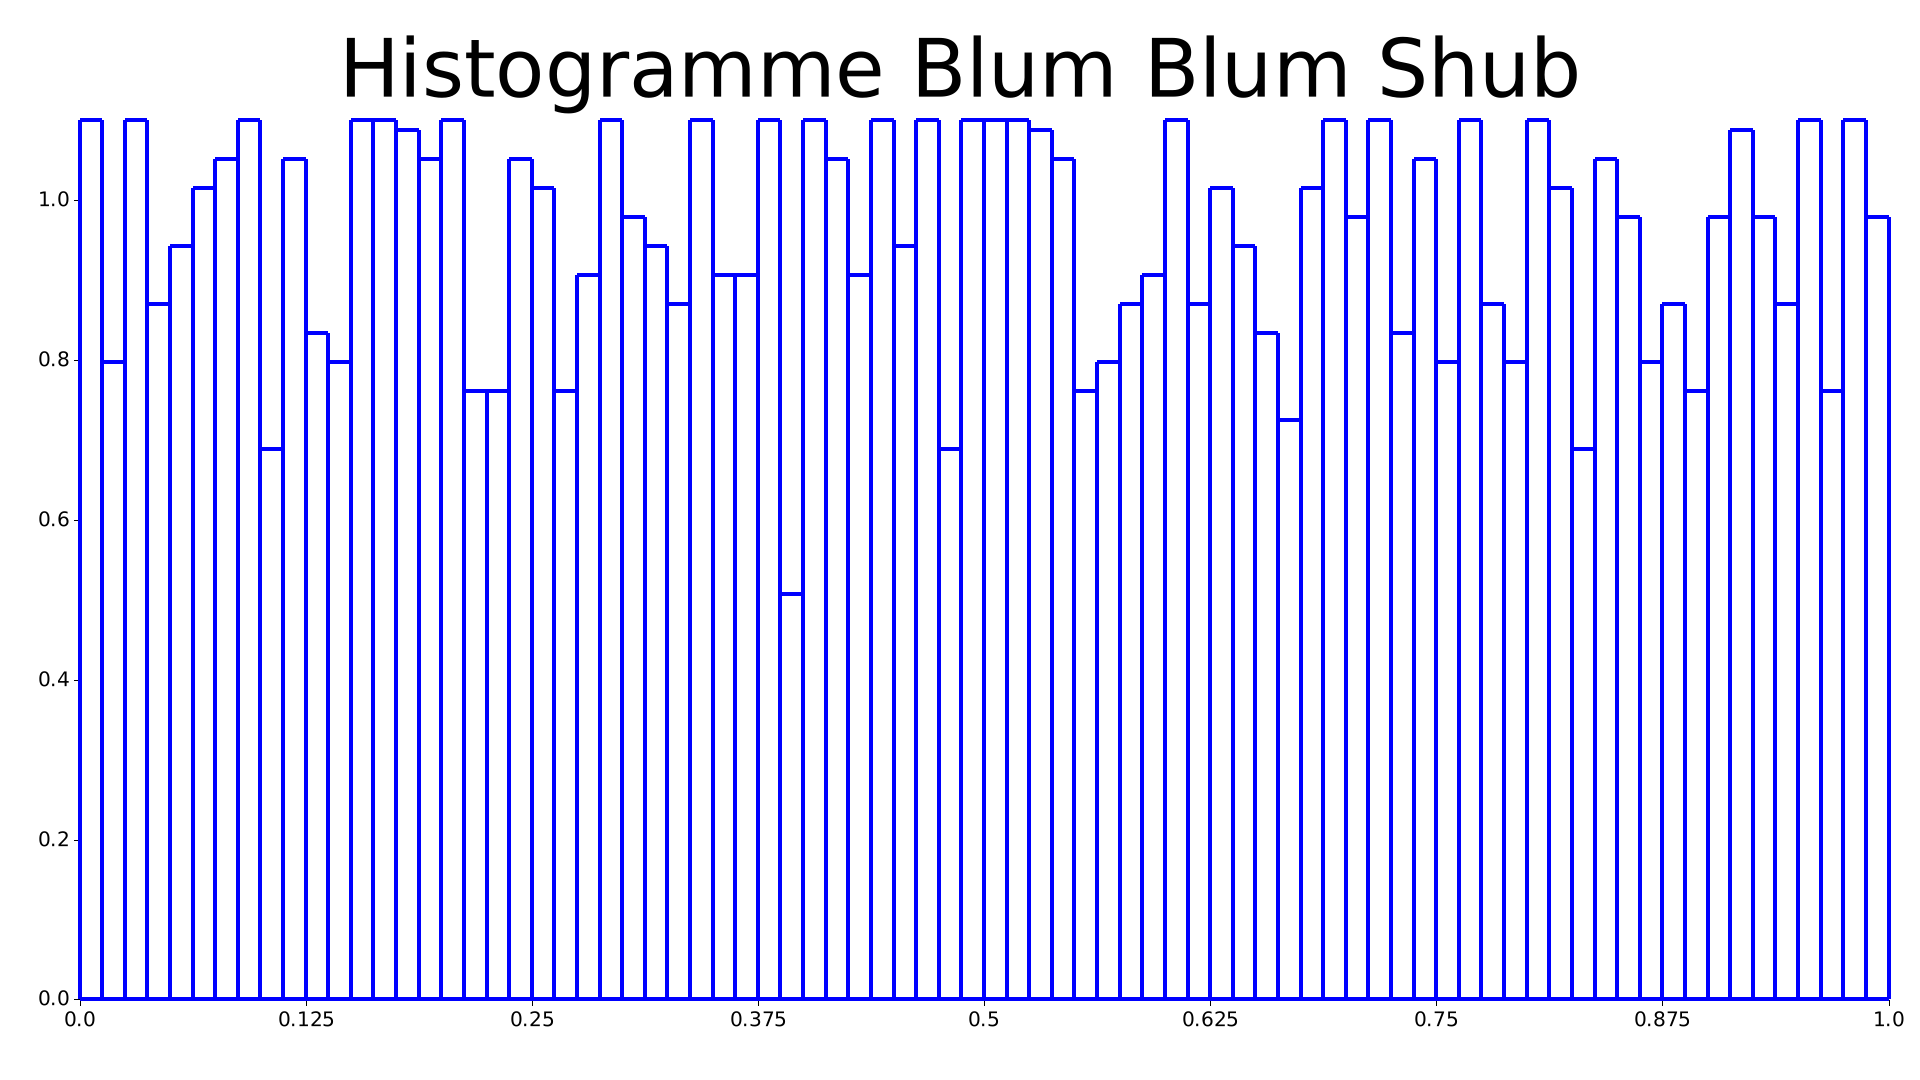
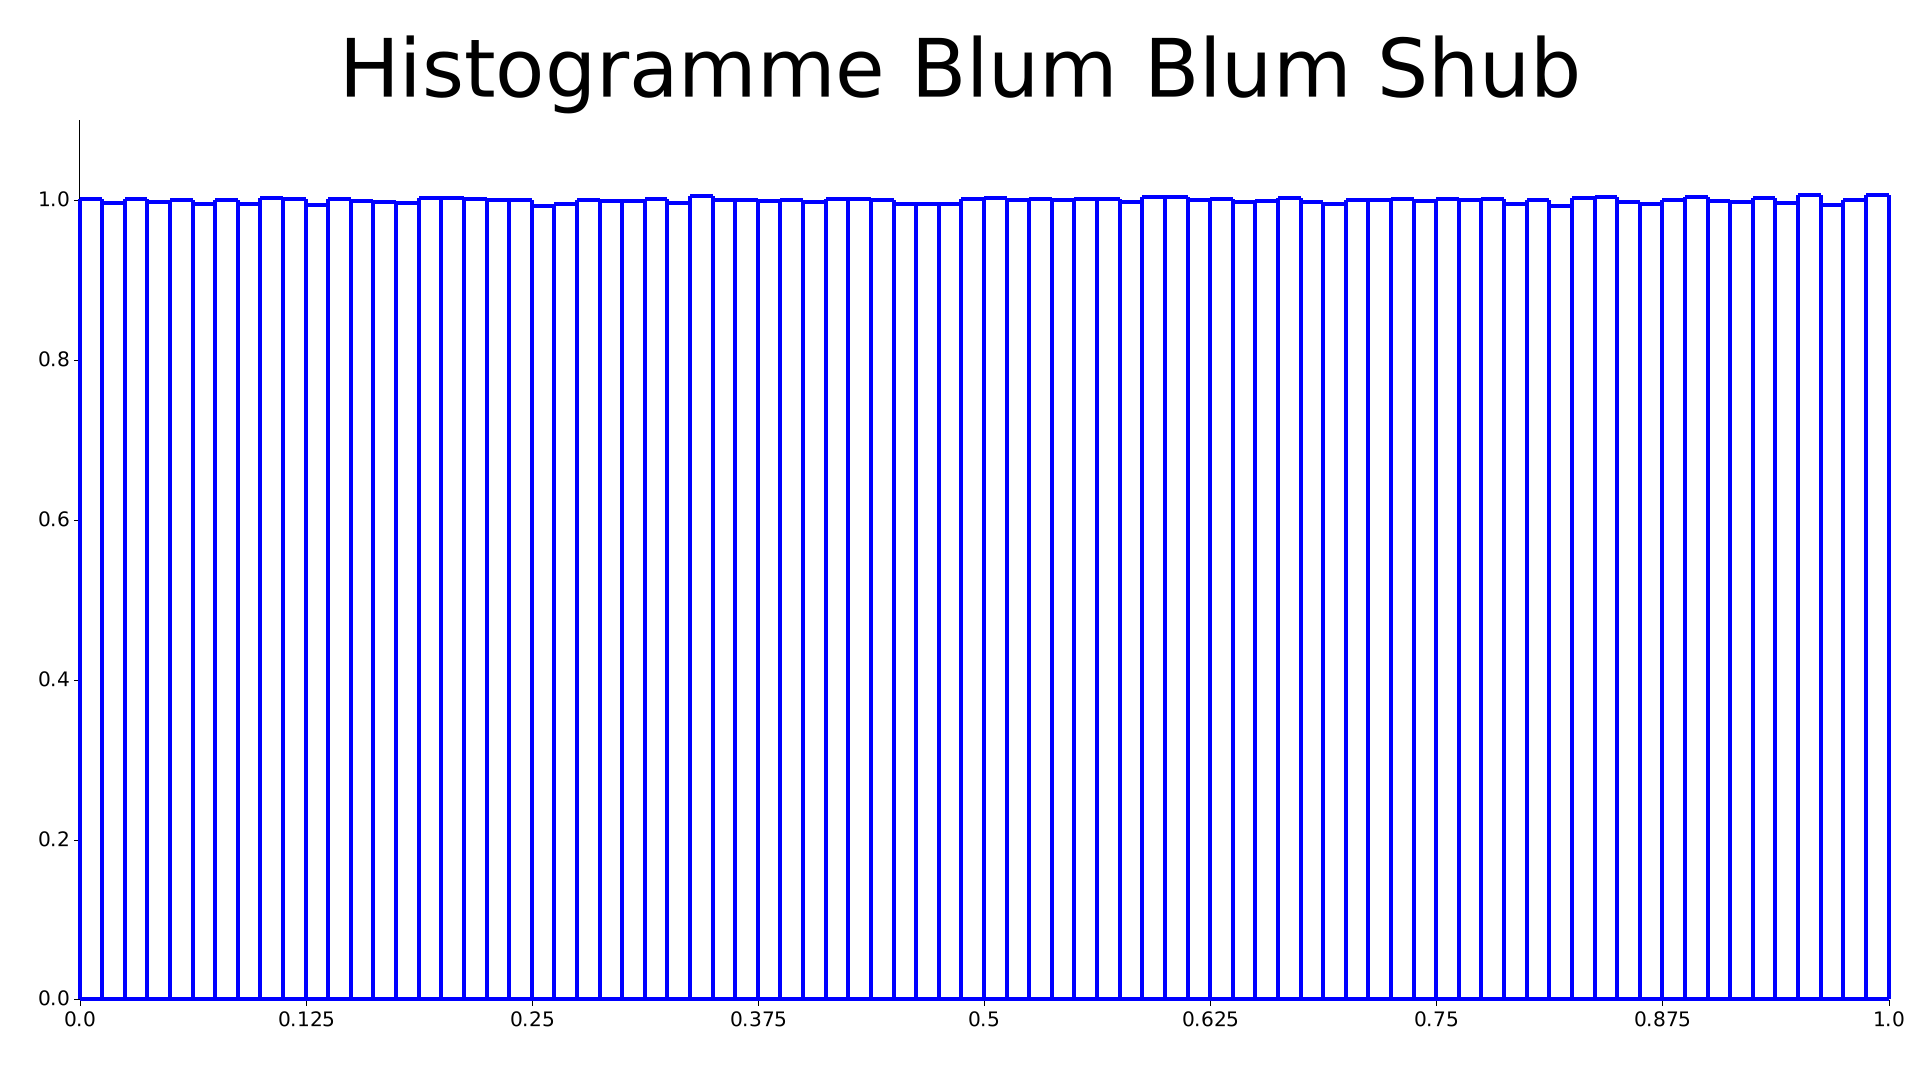
changes made during class

diff --git a/random_number_generators/src/rng/blum_blum_shub.rs b/random_number_generators/src/rng/blum_blum_shub.rs
@@ -2,12 +2,14 @@ use super::base::*;
 use num_primes::Generator;
 use super::linear_congruence_generators::*;
 use num_traits::ToPrimitive;
+use rand_xoshiro::rand_core::{SeedableRng,RngCore};
+use rand_xoshiro::Xoshiro256PlusPlus;
 
 pub struct BlumBlumShub {
-    p : u32,
-    q : u32,
-    m : u64,
-    seed : u32,
+    p : u64,
+    q : u64,
+    m : u128,
+    seed : u128,
 }
 
 impl RandomNumberGenerator for BlumBlumShub {
@@ -20,7 +22,7 @@ impl RNG32bitOutput for BlumBlumShub {
     fn next_u32(&mut self) -> u32{
         let mut out : u32 = 0;
         for _i in 0..32 {
-            out = (out << 1) | (self.next_bit() & 1_u32);
+            out = (out << 1) | (self.next_bit()as u32 & 1_u32);
         }
         return out;
     }
@@ -48,38 +50,39 @@ impl RNG128bitOutput for BlumBlumShub {
 
 
 impl BlumBlumShub {
-    pub fn set_p_q_seed(&mut self,p:u32,q:u32,seed:u32){
+    pub fn set_p_q_seed(&mut self,p:u64,q:u64,seed:u64){
         self.p = p;
         self.q = q;
-        self.m = (p * q) as u64;
-        self.seed = seed;
+        self.m = (p as u128 * q as u128 );
+        self.seed = seed as u128; 
     }
 
     fn next_bit(&mut self ) -> u32 {
-        self.seed = ((self.seed as u64 * self.seed as u64) % self.m) as u32;
-        return self.seed;
+        self.seed = ((self.seed as u128 * self.seed as u128) % self.m) as u128;
+        return self.seed as u32;
     }
 
+
+    //this does not work and break after ~100k iterations
     pub fn generate_p_q_seed(&mut self,seed:u64){
         loop {
-            self.p = Generator::new_prime(16).to_u32().unwrap(); //32 bit max to have M not overflow
+            self.p = Generator::safe_prime(64).to_u64().unwrap(); //32 bit max to have M not overflow
             if self.p % 4 == 3 {
                 break;
             }
         }
         loop {
-            self.q = Generator::new_prime(16).to_u32().unwrap(); //32 bit max to have M not overflow
+            self.q = Generator::safe_prime(64).to_u64().unwrap(); //32 bit max to have M not overflow
             if self.q % 4 == 3 {
                 break;
             }
         }
-        self.m = (self.p * self.q) as u64;
+        self.m = self.p as u128 * self.q as u128;
         
-        let mut rng = park_miller();
-        rng.set_seed(seed);
+        let mut rng = Xoshiro256PlusPlus::seed_from_u64(seed);
         loop {
-            self.seed = rng.next_u32();
-            if (self.seed % self.p != 0) && (self.seed % self.q != 0) && (self.seed != 0){
+            self.seed = rng.next_u64() as u128;
+            if (self.seed % self.p as u128 != 0) && (self.seed % self.q as u128 != 0) && (self.seed != 0){
                 break;
             }
         }
@@ -89,5 +92,5 @@ impl BlumBlumShub {
 
 
 pub fn blum_bum_shub() -> BlumBlumShub{
-    return BlumBlumShub{seed:7817,p:7603,q:7487,m:56_923_661};
+    return BlumBlumShub{seed:4121221139u128,p:30000000091u64,q:40000000003u64,m:1200000003730000000273u128};
 }

diff --git a/random_number_generators/src/rng/lagged_fibonacci_generators.rs b/random_number_generators/src/rng/lagged_fibonacci_generators.rs
@@ -16,7 +16,7 @@ impl RandomNumberGenerator for MitchellMoore {
 }
 
 impl RNG32bitOutput for MitchellMoore {
-    fn next_u32(&mut self ) -> u32 { //TODO verify u64 is max
+    fn next_u32(&mut self ) -> u32 {
         let out = lagged_fibo(self.seed[23] as u64,self.seed[54] as u64,self.modulo) as u32;
         self.seed.rotate_right(1);
         self.seed[0] = out;
@@ -40,6 +40,5 @@ pub fn mitchell_moore() -> MitchellMoore{
 
 fn lagged_fibo(xa:u64,xb:u64,m:u64) ->u64 {
     return(xa + xb) % m;
-
 }
 

diff --git a/random_number_generators/src/main.rs b/random_number_generators/src/main.rs
@@ -65,7 +65,7 @@ fn main() {
 
     
     let mut blum_bum_shub = blum_bum_shub();
-    //blum_bum_shub.generate_p_q_seed(10000000);
+    //blum_bum_shub.generate_p_q_seed(SEED); not working , do not use
 
     let mut vec_buffer = vec![0u32;BENCHMARK_SIZE];
 

diff --git a/random_number_generators/src/analysis.rs b/random_number_generators/src/analysis.rs
@@ -130,6 +130,7 @@ fn histogram_plot(data : &Vec<u32>, name: &str)-> Result<(), Box<dyn std::error:
 /*
 Khi2
 Moyenne
+corrélation pearson
 
 QQ plot DONE
 histogramme DONE
